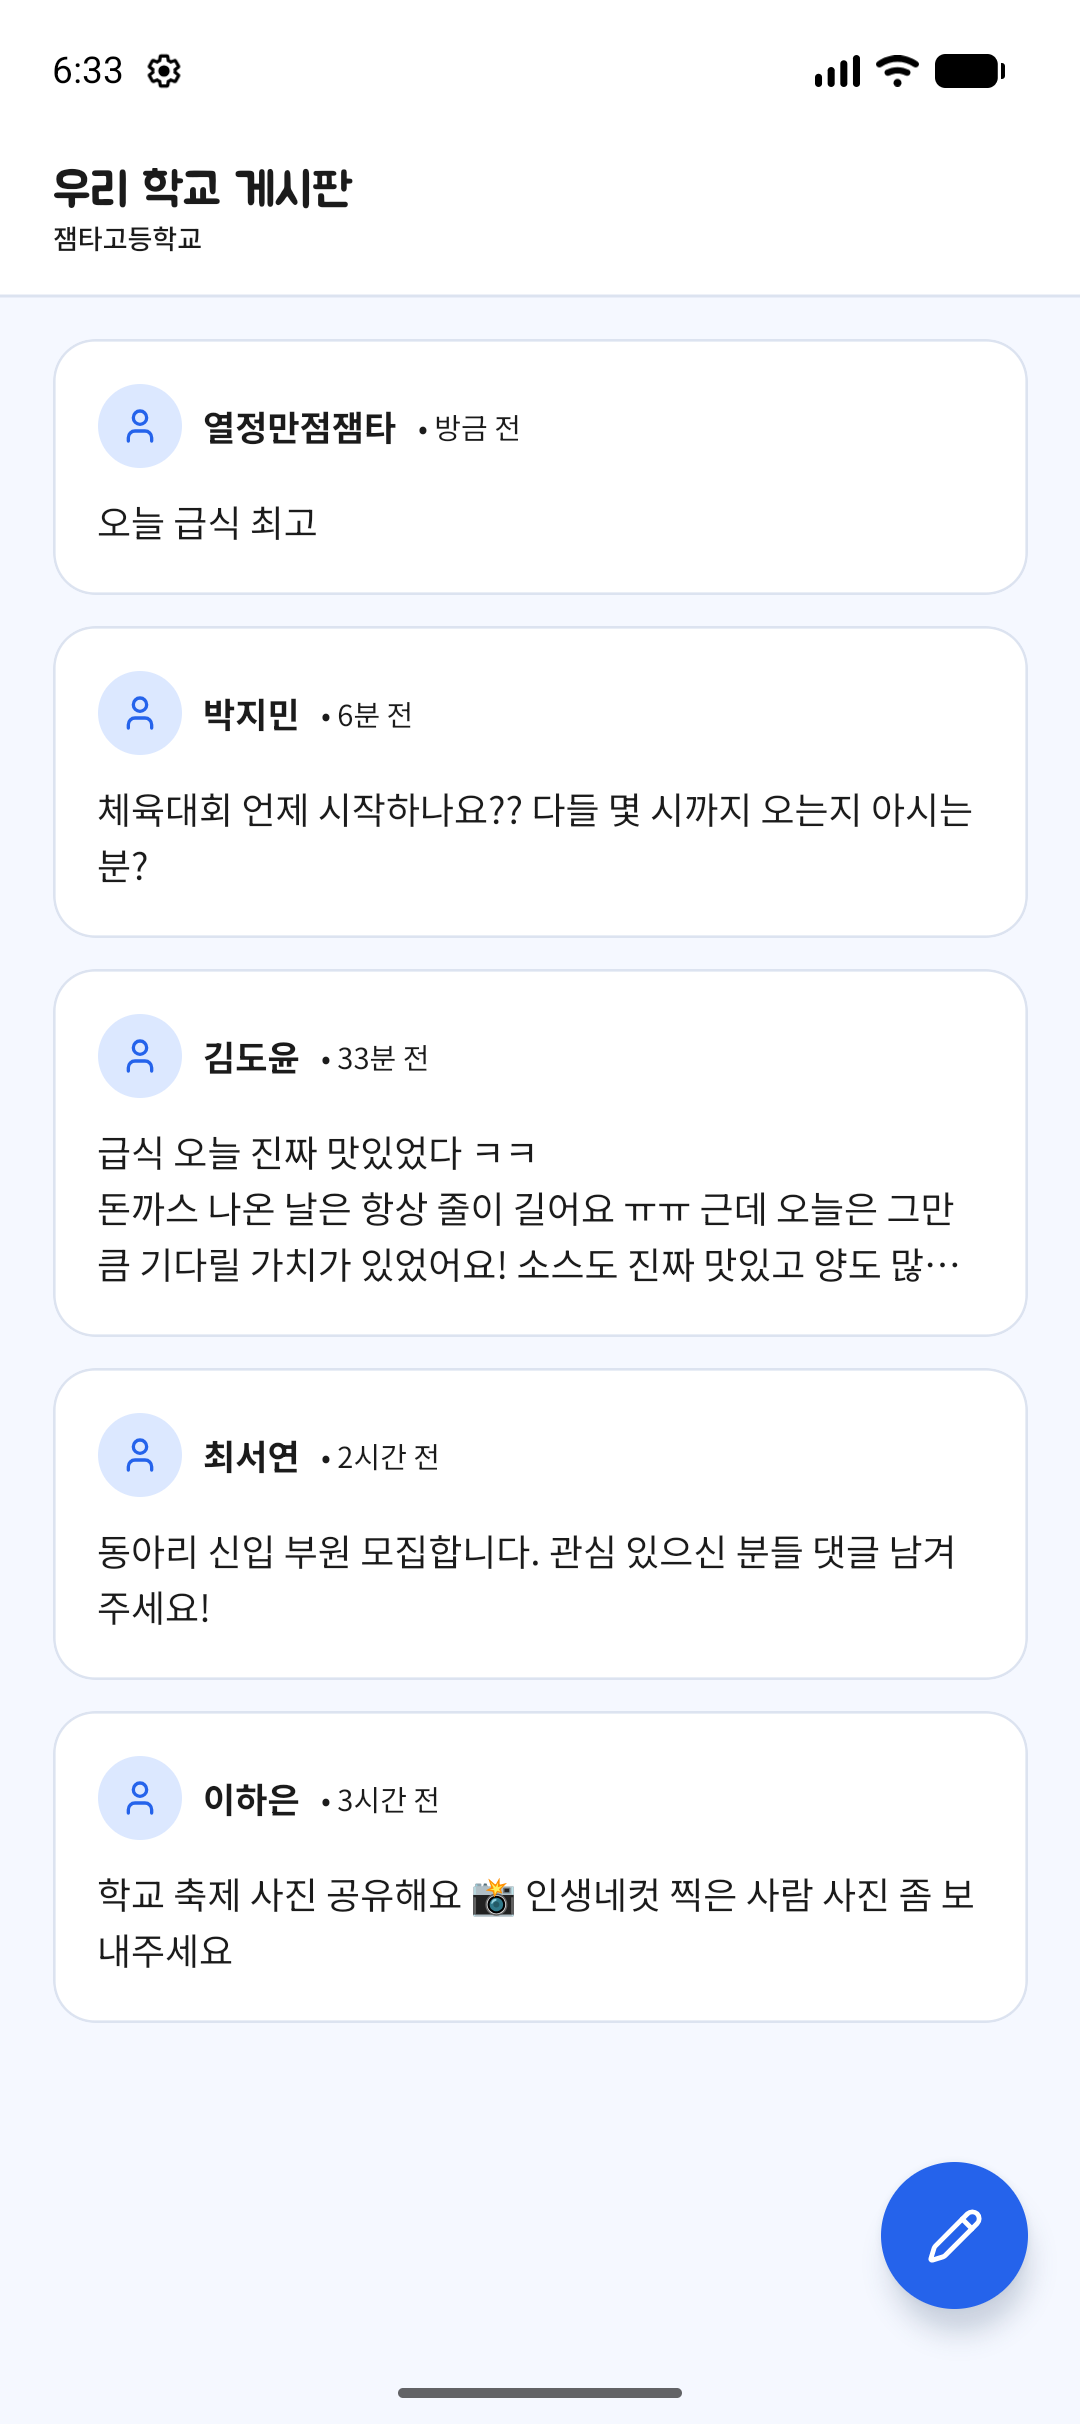
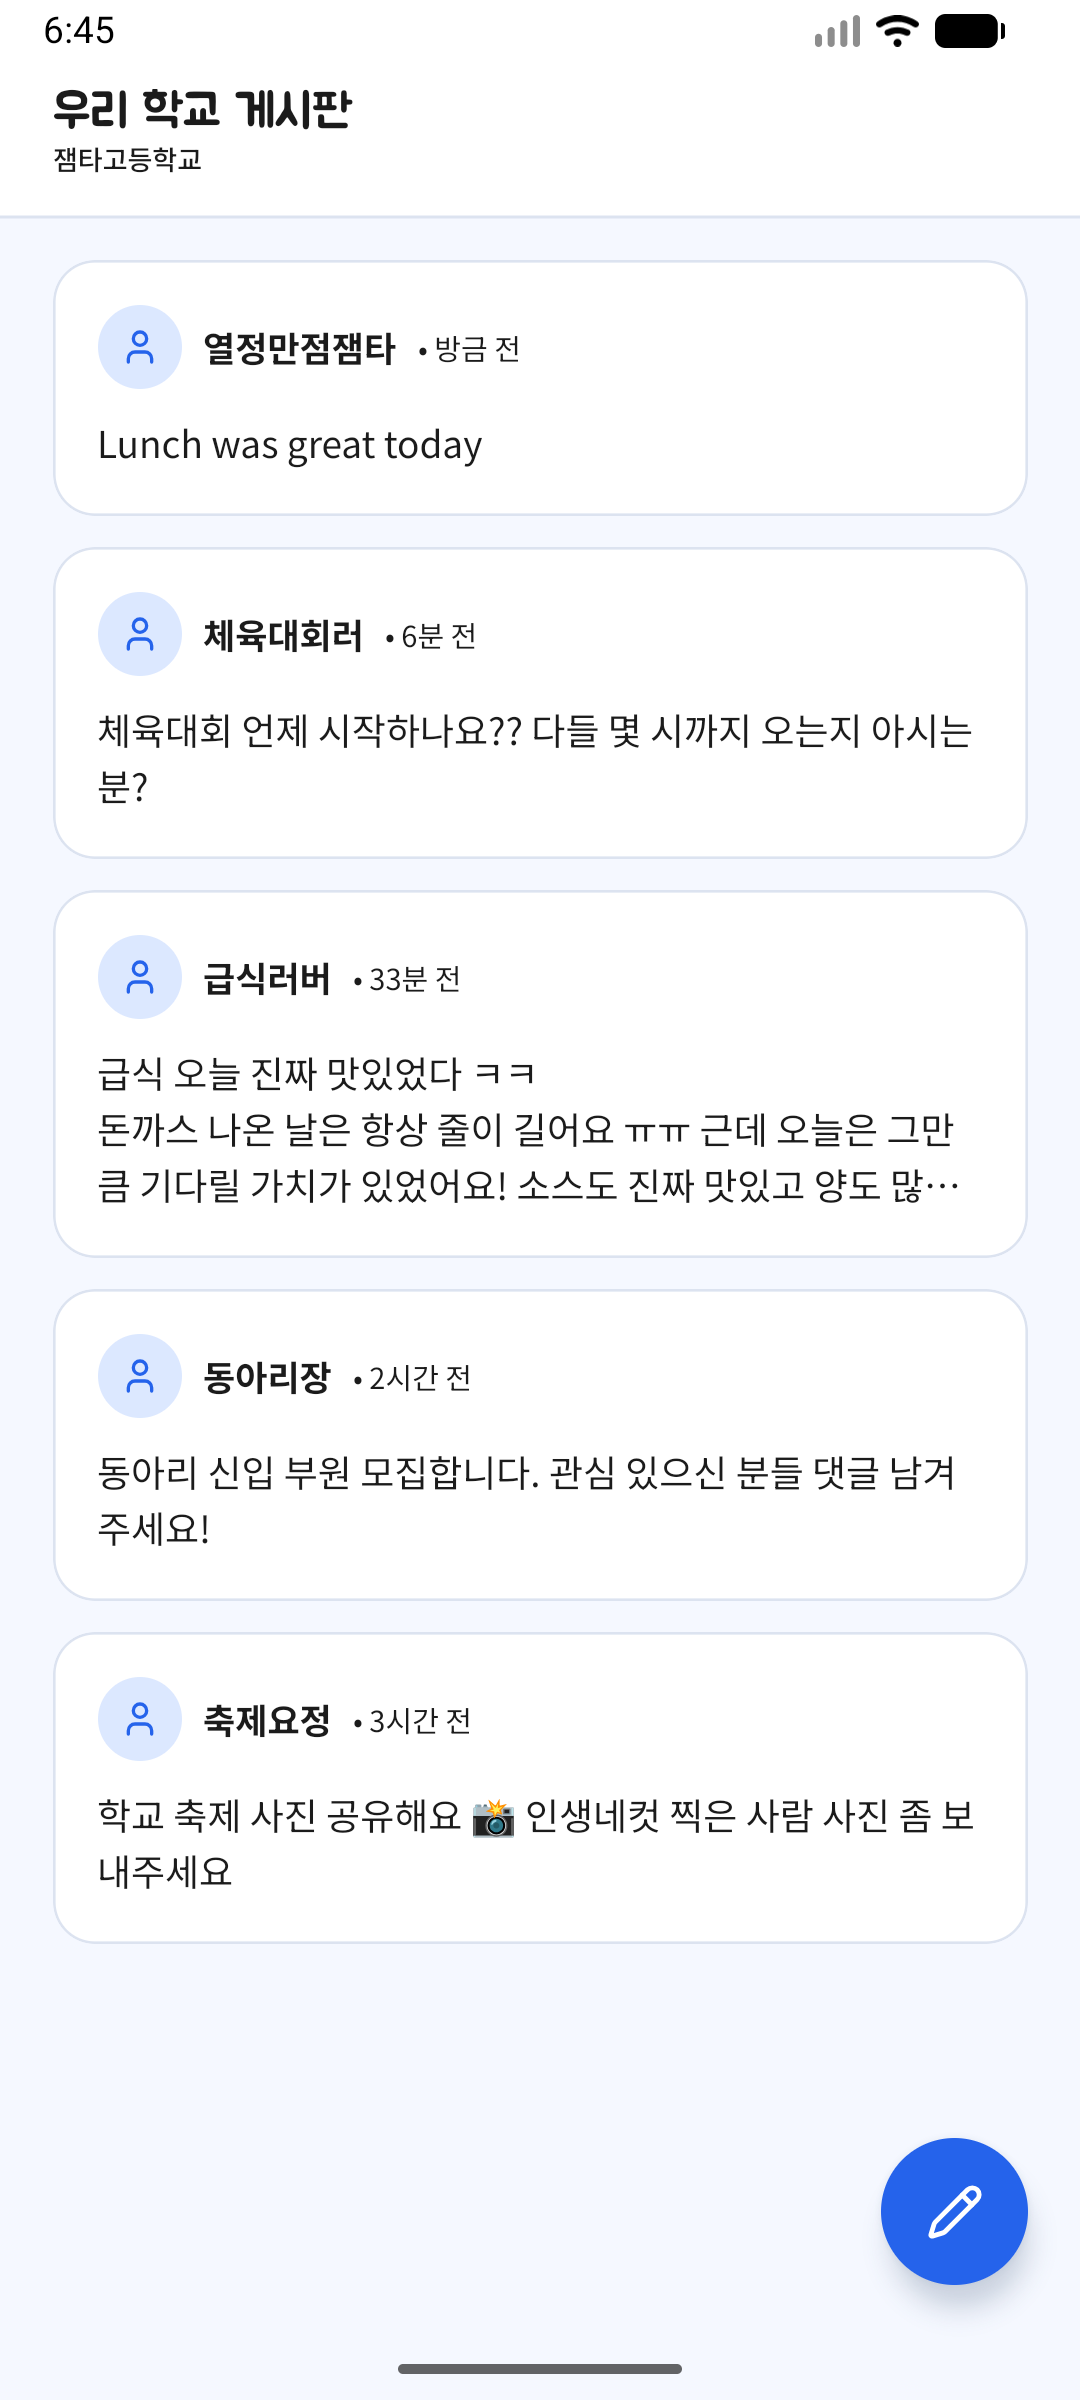
mp1, mp2 새 기준으로 다시 작성

diff --git a/미니피드 앱/result_미니피드MP1/app/src/features/posts/seed.ts b/미니피드 앱/result_미니피드MP1/app/src/features/posts/seed.ts
@@ -5,26 +5,26 @@ import type { Post } from './types';
 export const SEED_POSTS: Post[] = [
   {
     id: 'seed-1',
-    nickname: '박지민',
+    nickname: '체육대회러',
     content: '체육대회 언제 시작하나요?? 다들 몇 시까지 오는지 아시는 분?',
     createdAt: minutesAgo(5),
   },
   {
     id: 'seed-2',
-    nickname: '김도윤',
+    nickname: '급식러버',
     content:
       '급식 오늘 진짜 맛있었다 ㅋㅋ\n돈까스 나온 날은 항상 줄이 길어요 ㅠㅠ 근데 오늘은 그만큼 기다릴 가치가 있었어요! 소스도 진짜 맛있고 양도 많아서 완전 만족스러웠어요. 다음 급식도 기대되네요 🍽',
     createdAt: minutesAgo(32),
   },
   {
     id: 'seed-3',
-    nickname: '최서연',
+    nickname: '동아리장',
     content: '동아리 신입 부원 모집합니다. 관심 있으신 분들 댓글 남겨주세요!',
     createdAt: minutesAgo(120),
   },
   {
     id: 'seed-4',
-    nickname: '이하은',
+    nickname: '축제요정',
     content: '학교 축제 사진 공유해요 📸 인생네컷 찍은 사람 사진 좀 보내주세요',
     createdAt: minutesAgo(180),
   },

diff --git a/미니피드 앱/result_미니피드MP1/README.md b/미니피드 앱/result_미니피드MP1/README.md
@@ -31,7 +31,8 @@
 
 - 카드의 내용은 3줄까지만 보이고 길면 `…`로 잘리며, 상세에서는 전체가 보입니다.
 - 화면 디자인(색상·폰트·간격)은 팀 디자인 파일 `JamSNS.pen`의 값을 따랐습니다.
-- 스크린샷은 Android 에뮬레이터(Pixel 9)의 Expo Go에서 촬영했습니다.
+- 스크린샷은 Android 에뮬레이터(`Medium_Phone_API_36.1`, Android API 36.1)의 Expo Go에서 촬영했습니다.
+- 예시 글 닉네임은 실제 사람 이름이 아닌 가상 닉네임입니다. 연락처·실제 인물 사진·민감정보는 어디에도 없습니다.
 
 ## 더미 데이터 구조
 
@@ -46,7 +47,7 @@ interface Post {
 }
 ```
 
-- **예시 글 4개** (`app/src/features/posts/seed.ts`): 앱을 켜면 처음 보이는 데이터입니다. 박지민(5분 전), 김도윤(32분 전), 최서연(2시간 전), 이하은(3시간 전)이 쓴 글이며, `createdAt`은 앱을 켠 시점 기준 `minutesAgo(n)`으로 만들기 때문에 항상 "5분 전"처럼 보입니다.
+- **예시 글 4개** (`app/src/features/posts/seed.ts`): 앱을 켜면 처음 보이는 데이터입니다. 체육대회러(5분 전), 급식러버(32분 전), 동아리장(2시간 전), 축제요정(3시간 전)이 쓴 글이며, `createdAt`은 앱을 켠 시점 기준 `minutesAgo(n)`으로 만들기 때문에 항상 "5분 전"처럼 보입니다.
 - **저장소** (`PostsProvider.tsx`): React Context에 `posts` 배열을 들고 있으며 아래 함수를 제공합니다.
   - `posts` : 게시글 목록 (최신 글이 맨 앞)
   - `addPost(content)` : 새 글을 만들어 배열 **맨 앞**에 추가
@@ -66,6 +67,10 @@ interface Post {
 
 ## 실행 절차
 
+- 프레임워크/SDK: Expo SDK 58 (`expo 58.0.23`) / React Native 0.88.1 / TypeScript
+- 실행 기기: Android 에뮬레이터 `Medium_Phone_API_36.1` (API 36.1), Expo Go
+- 서버·`.env`·로그인 없이 바로 실행됩니다.
+
 사전 준비: [Node.js LTS](https://nodejs.org) 설치, 그리고 아래 둘 중 하나
 - Android 에뮬레이터(Android Studio) 또는
 - 스마트폰에 **Expo Go** 앱 설치 (PC와 같은 와이파이 필요)
@@ -80,14 +85,42 @@ npx expo start       # 개발 서버 시작
 2. 스마트폰이라면 터미널에 뜬 **QR 코드**를 Expo Go로 스캔합니다. 연결이 안 되면 `npx expo start --tunnel`
 3. 코드를 수정해 저장하면 화면이 자동으로 갱신됩니다. 이상하면 `npx expo start -c` (캐시 삭제)
 
-동작 확인 순서: 앱 실행 → 피드 확인 → 연필 버튼 → 내용 입력 → 게시 → 맨 위에 "방금 전" 글 확인 → 카드 탭 → 상세 확인
-
 코드 검사 (오류 없이 끝남):
 
 ```bash
 npx tsc --noEmit     # 타입 검사
 npx expo lint        # 코드 스타일 검사
 ```
+
+## 확인 방법
+
+### 피드·글쓰기·상세 화면 이동
+
+- 조작: 앱을 실행해 피드를 확인하고, 연필 버튼을 눌러 글쓰기 화면을 연 뒤, 게시 후 피드의 카드를 눌러 상세 화면으로 이동한다
+- 기대 결과: 피드 → 글쓰기 → 피드 → 상세 순서로 화면이 이동하고, 피드에는 더미 게시글 카드가 스크롤 목록으로 표시된다
+- 스크린샷: 01_feed.png, 02_write.png, 04_detail.png
+
+### 새 글 최상단 추가
+
+- 조작: 글쓰기 화면에서 내용을 입력하고 "게시"를 누른다
+- 기대 결과: 방금 쓴 글이 피드 맨 위에 추가된다
+- 스크린샷: 02_write.png, 03_feed_after_post.png
+
+### 상대 시간 표시
+
+- 조작: 피드 카드의 작성 시각과, 방금 쓴 글의 작성 시각을 확인한다
+- 기대 결과: 예시 글은 "5분 전", "32분 전", "2시간 전", "3시간 전", 방금 쓴 글은 "방금 전"으로 표시된다
+- 스크린샷: 01_feed.png, 03_feed_after_post.png
+
+### 더미 데이터에 개인정보 없음
+
+- 조작: `app/src/features/posts/seed.ts`의 예시 글과 스크린샷을 확인한다
+- 기대 결과: 닉네임은 모두 가상 닉네임이며 실명·연락처·실제 인물 사진·민감정보가 없다
+- 스크린샷: 01_feed.png
+
+시험 데이터: app/src/features/posts/seed.ts
+
+네트워크: 불필요 (온라인/비행기 모드 모두 동일하게 동작)
 
 ## 폴더 구조
 

diff --git a/미니피드 앱/result_미니피드MP2/screenshots/README.md b/미니피드 앱/result_미니피드MP2/screenshots/README.md
@@ -1,10 +1,7 @@
-# 제출 전 실제 화면으로 교체
+# 스크린샷 안내
 
-아래 파일은 반드시 실제 에뮬레이터와 Supabase 콘솔에서 직접 캡처해 이 폴더에 넣습니다.
+`README.md`의 "확인 방법"에서 참조하는 파일입니다. 에뮬레이터 2대(`Medium_Phone_API_36.1`)에서 직접 캡처했습니다.
 
-1. `01_device_a_write.png` — 기기 A에서 게시글 작성 후 피드에 표시된 화면
+1. `01_device_a_write.png` — 기기 A에서 글 작성 후 피드에 표시된 화면
 2. `02_device_b_sync.png` — 기기 B에서 당겨서 새로고침 후 같은 글이 표시된 화면
-3. `03_supabase_posts.png` — Supabase Table Editor의 `posts` 데이터 화면
-
-기존 MP1 참고 이미지는 `mp1_reference/` 폴더에 보관합니다. 평가 증빙에는 위 3장을 사용합니다.
-
+3. `03_write_fail_offline.png` — 네트워크를 끈 상태에서 작성 실패 안내가 표시된 화면
